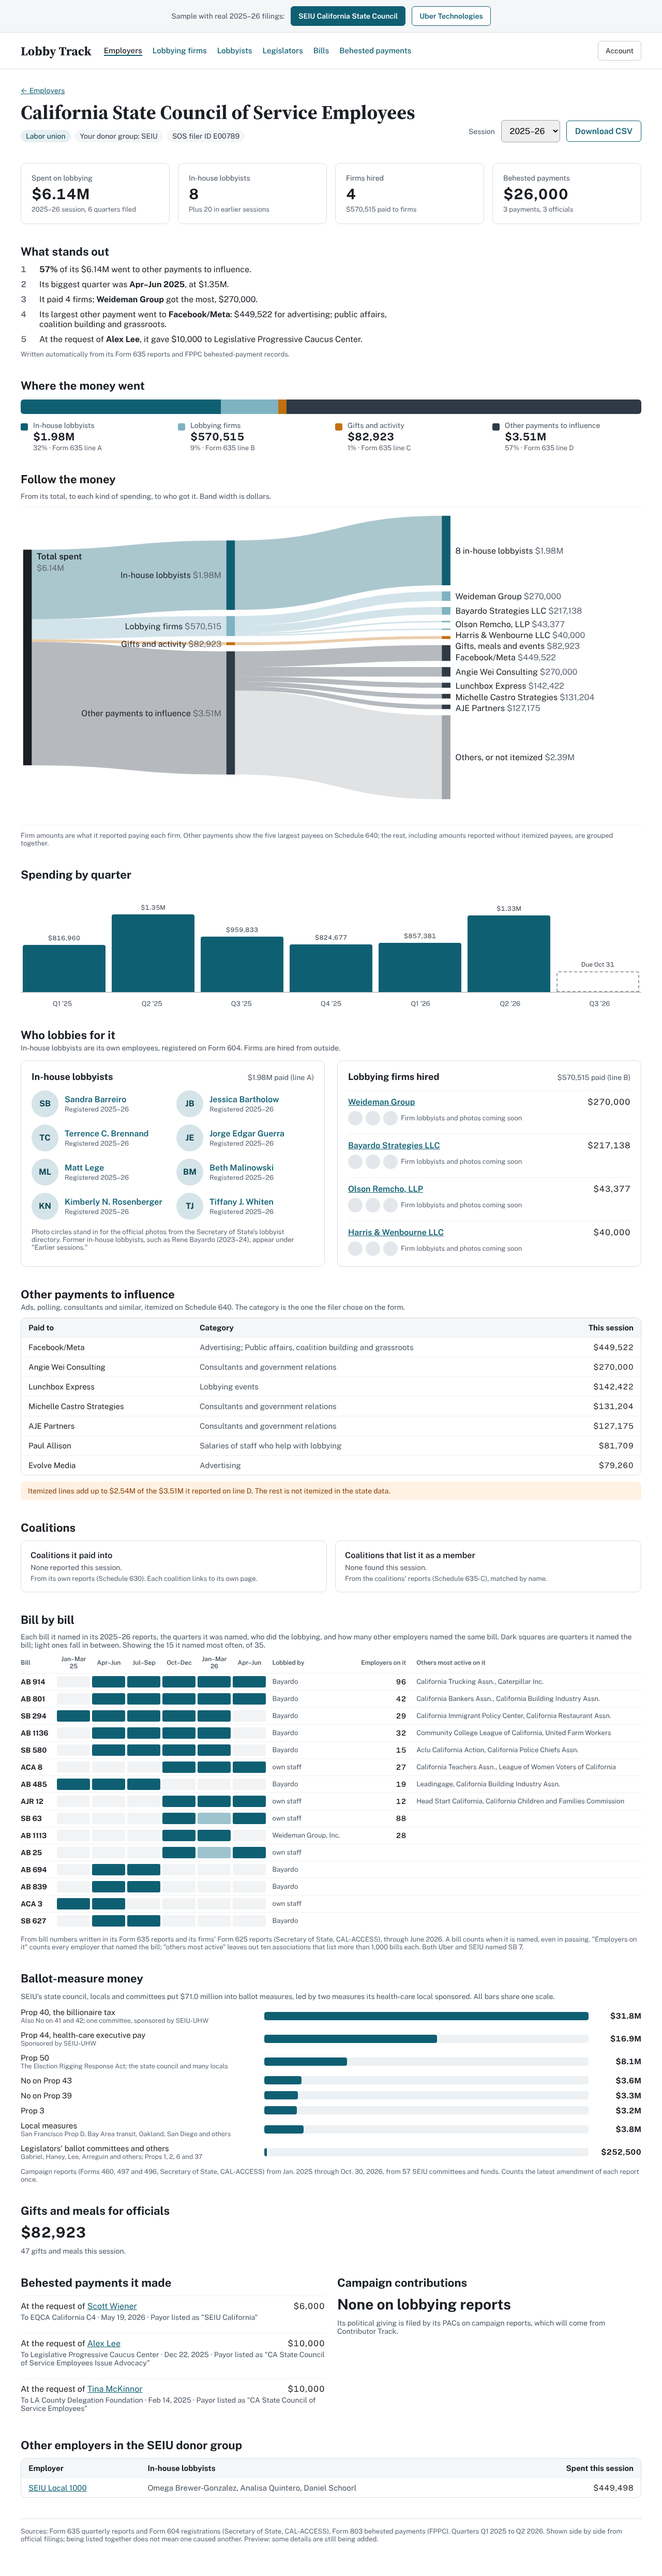
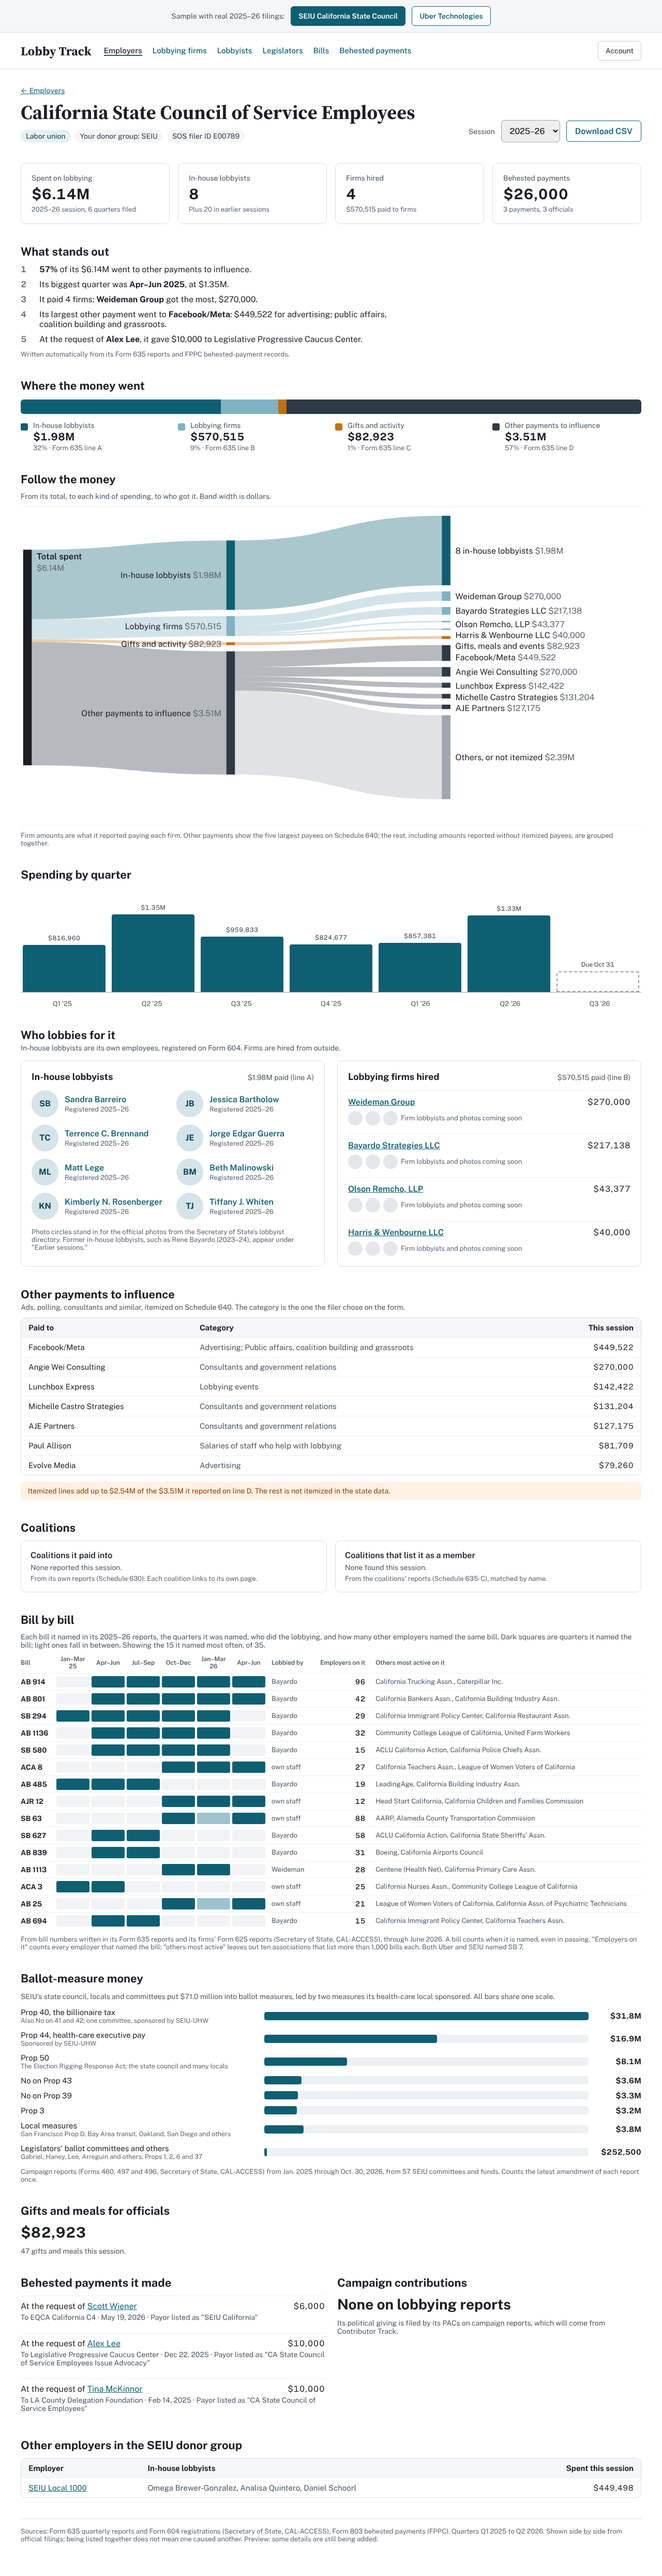
Fill in SEIU bill details and tidy names
Claude-Session: https://claude.ai/code/session_013wSKFYhvjsWLfhMDXcuD88

Changed region(s): [[0.5625, 0.6539, 0.875, 0.7473], [0.0312, 0.6539, 0.4688, 0.7473]]

diff --git a/index.html b/index.html
@@ -477,7 +477,7 @@ a{color:#0F5F73}a:hover{color:#0A4352}
           <td style="padding: 4px 2px"><div title="" style="height: 22px; border-radius: 3px; background: #F1F3F5"></div></td><td style="padding: 4px 2px"><div title="named this quarter" style="height: 22px; border-radius: 3px; background: #0F5F73"></div></td><td style="padding: 4px 2px"><div title="named this quarter" style="height: 22px; border-radius: 3px; background: #0F5F73"></div></td><td style="padding: 4px 2px"><div title="named this quarter" style="height: 22px; border-radius: 3px; background: #0F5F73"></div></td><td style="padding: 4px 2px"><div title="named this quarter" style="height: 22px; border-radius: 3px; background: #0F5F73"></div></td><td style="padding: 4px 2px"><div title="" style="height: 22px; border-radius: 3px; background: #F1F3F5"></div></td>
           <td style="padding: 8px 10px; font-size: 13px; color: #4A5560; white-space: nowrap">Bayardo</td>
           <td style="padding: 8px 10px; text-align: right; font-variant-numeric: tabular-nums; font-weight: 600">15</td>
-          <td style="padding: 8px 0 8px 10px; font-size: 13px; color: #4A5560; min-width: 220px">Aclu California Action, California Police Chiefs Assn.</td>
+          <td style="padding: 8px 0 8px 10px; font-size: 13px; color: #4A5560; min-width: 220px">ACLU California Action, California Police Chiefs Assn.</td>
         </tr>
         <tr style="border-top: 1px solid #EEF1F3">
           <th scope="row" style="text-align: left; padding: 8px 10px 8px 0; white-space: nowrap; font-weight: 700">ACA 8</th>
@@ -491,7 +491,7 @@ a{color:#0F5F73}a:hover{color:#0A4352}
           <td style="padding: 4px 2px"><div title="named this quarter" style="height: 22px; border-radius: 3px; background: #0F5F73"></div></td><td style="padding: 4px 2px"><div title="named this quarter" style="height: 22px; border-radius: 3px; background: #0F5F73"></div></td><td style="padding: 4px 2px"><div title="named this quarter" style="height: 22px; border-radius: 3px; background: #0F5F73"></div></td><td style="padding: 4px 2px"><div title="" style="height: 22px; border-radius: 3px; background: #F1F3F5"></div></td><td style="padding: 4px 2px"><div title="" style="height: 22px; border-radius: 3px; background: #F1F3F5"></div></td><td style="padding: 4px 2px"><div title="" style="height: 22px; border-radius: 3px; background: #F1F3F5"></div></td>
           <td style="padding: 8px 10px; font-size: 13px; color: #4A5560; white-space: nowrap">Bayardo</td>
           <td style="padding: 8px 10px; text-align: right; font-variant-numeric: tabular-nums; font-weight: 600">19</td>
-          <td style="padding: 8px 0 8px 10px; font-size: 13px; color: #4A5560; min-width: 220px">Leadingage, California Building Industry Assn.</td>
+          <td style="padding: 8px 0 8px 10px; font-size: 13px; color: #4A5560; min-width: 220px">LeadingAge, California Building Industry Assn.</td>
         </tr>
         <tr style="border-top: 1px solid #EEF1F3">
           <th scope="row" style="text-align: left; padding: 8px 10px 8px 0; white-space: nowrap; font-weight: 700">AJR 12</th>
@@ -505,49 +505,49 @@ a{color:#0F5F73}a:hover{color:#0A4352}
           <td style="padding: 4px 2px"><div title="" style="height: 22px; border-radius: 3px; background: #F1F3F5"></div></td><td style="padding: 4px 2px"><div title="" style="height: 22px; border-radius: 3px; background: #F1F3F5"></div></td><td style="padding: 4px 2px"><div title="" style="height: 22px; border-radius: 3px; background: #F1F3F5"></div></td><td style="padding: 4px 2px"><div title="named this quarter" style="height: 22px; border-radius: 3px; background: #0F5F73"></div></td><td style="padding: 4px 2px"><div title="between quarters it was named" style="height: 22px; border-radius: 3px; background: #9CC3CE"></div></td><td style="padding: 4px 2px"><div title="named this quarter" style="height: 22px; border-radius: 3px; background: #0F5F73"></div></td>
           <td style="padding: 8px 10px; font-size: 13px; color: #4A5560; white-space: nowrap">own staff</td>
           <td style="padding: 8px 10px; text-align: right; font-variant-numeric: tabular-nums; font-weight: 600">88</td>
-          <td style="padding: 8px 0 8px 10px; font-size: 13px; color: #4A5560; min-width: 220px"></td>
-        </tr>
-        <tr style="border-top: 1px solid #EEF1F3">
-          <th scope="row" style="text-align: left; padding: 8px 10px 8px 0; white-space: nowrap; font-weight: 700">AB 1113</th>
-          <td style="padding: 4px 2px"><div title="" style="height: 22px; border-radius: 3px; background: #F1F3F5"></div></td><td style="padding: 4px 2px"><div title="" style="height: 22px; border-radius: 3px; background: #F1F3F5"></div></td><td style="padding: 4px 2px"><div title="" style="height: 22px; border-radius: 3px; background: #F1F3F5"></div></td><td style="padding: 4px 2px"><div title="named this quarter" style="height: 22px; border-radius: 3px; background: #0F5F73"></div></td><td style="padding: 4px 2px"><div title="named this quarter" style="height: 22px; border-radius: 3px; background: #0F5F73"></div></td><td style="padding: 4px 2px"><div title="" style="height: 22px; border-radius: 3px; background: #F1F3F5"></div></td>
-          <td style="padding: 8px 10px; font-size: 13px; color: #4A5560; white-space: nowrap">Weideman Group, Inc.</td>
-          <td style="padding: 8px 10px; text-align: right; font-variant-numeric: tabular-nums; font-weight: 600">28</td>
-          <td style="padding: 8px 0 8px 10px; font-size: 13px; color: #4A5560; min-width: 220px"></td>
-        </tr>
-        <tr style="border-top: 1px solid #EEF1F3">
-          <th scope="row" style="text-align: left; padding: 8px 10px 8px 0; white-space: nowrap; font-weight: 700">AB 25</th>
-          <td style="padding: 4px 2px"><div title="" style="height: 22px; border-radius: 3px; background: #F1F3F5"></div></td><td style="padding: 4px 2px"><div title="" style="height: 22px; border-radius: 3px; background: #F1F3F5"></div></td><td style="padding: 4px 2px"><div title="" style="height: 22px; border-radius: 3px; background: #F1F3F5"></div></td><td style="padding: 4px 2px"><div title="named this quarter" style="height: 22px; border-radius: 3px; background: #0F5F73"></div></td><td style="padding: 4px 2px"><div title="between quarters it was named" style="height: 22px; border-radius: 3px; background: #9CC3CE"></div></td><td style="padding: 4px 2px"><div title="named this quarter" style="height: 22px; border-radius: 3px; background: #0F5F73"></div></td>
-          <td style="padding: 8px 10px; font-size: 13px; color: #4A5560; white-space: nowrap">own staff</td>
-          <td style="padding: 8px 10px; text-align: right; font-variant-numeric: tabular-nums; font-weight: 600"></td>
-          <td style="padding: 8px 0 8px 10px; font-size: 13px; color: #4A5560; min-width: 220px"></td>
-        </tr>
-        <tr style="border-top: 1px solid #EEF1F3">
-          <th scope="row" style="text-align: left; padding: 8px 10px 8px 0; white-space: nowrap; font-weight: 700">AB 694</th>
-          <td style="padding: 4px 2px"><div title="" style="height: 22px; border-radius: 3px; background: #F1F3F5"></div></td><td style="padding: 4px 2px"><div title="named this quarter" style="height: 22px; border-radius: 3px; background: #0F5F73"></div></td><td style="padding: 4px 2px"><div title="named this quarter" style="height: 22px; border-radius: 3px; background: #0F5F73"></div></td><td style="padding: 4px 2px"><div title="" style="height: 22px; border-radius: 3px; background: #F1F3F5"></div></td><td style="padding: 4px 2px"><div title="" style="height: 22px; border-radius: 3px; background: #F1F3F5"></div></td><td style="padding: 4px 2px"><div title="" style="height: 22px; border-radius: 3px; background: #F1F3F5"></div></td>
-          <td style="padding: 8px 10px; font-size: 13px; color: #4A5560; white-space: nowrap">Bayardo</td>
-          <td style="padding: 8px 10px; text-align: right; font-variant-numeric: tabular-nums; font-weight: 600"></td>
-          <td style="padding: 8px 0 8px 10px; font-size: 13px; color: #4A5560; min-width: 220px"></td>
-        </tr>
-        <tr style="border-top: 1px solid #EEF1F3">
-          <th scope="row" style="text-align: left; padding: 8px 10px 8px 0; white-space: nowrap; font-weight: 700">AB 839</th>
-          <td style="padding: 4px 2px"><div title="" style="height: 22px; border-radius: 3px; background: #F1F3F5"></div></td><td style="padding: 4px 2px"><div title="named this quarter" style="height: 22px; border-radius: 3px; background: #0F5F73"></div></td><td style="padding: 4px 2px"><div title="named this quarter" style="height: 22px; border-radius: 3px; background: #0F5F73"></div></td><td style="padding: 4px 2px"><div title="" style="height: 22px; border-radius: 3px; background: #F1F3F5"></div></td><td style="padding: 4px 2px"><div title="" style="height: 22px; border-radius: 3px; background: #F1F3F5"></div></td><td style="padding: 4px 2px"><div title="" style="height: 22px; border-radius: 3px; background: #F1F3F5"></div></td>
-          <td style="padding: 8px 10px; font-size: 13px; color: #4A5560; white-space: nowrap">Bayardo</td>
-          <td style="padding: 8px 10px; text-align: right; font-variant-numeric: tabular-nums; font-weight: 600"></td>
-          <td style="padding: 8px 0 8px 10px; font-size: 13px; color: #4A5560; min-width: 220px"></td>
-        </tr>
-        <tr style="border-top: 1px solid #EEF1F3">
-          <th scope="row" style="text-align: left; padding: 8px 10px 8px 0; white-space: nowrap; font-weight: 700">ACA 3</th>
-          <td style="padding: 4px 2px"><div title="named this quarter" style="height: 22px; border-radius: 3px; background: #0F5F73"></div></td><td style="padding: 4px 2px"><div title="named this quarter" style="height: 22px; border-radius: 3px; background: #0F5F73"></div></td><td style="padding: 4px 2px"><div title="" style="height: 22px; border-radius: 3px; background: #F1F3F5"></div></td><td style="padding: 4px 2px"><div title="" style="height: 22px; border-radius: 3px; background: #F1F3F5"></div></td><td style="padding: 4px 2px"><div title="" style="height: 22px; border-radius: 3px; background: #F1F3F5"></div></td><td style="padding: 4px 2px"><div title="" style="height: 22px; border-radius: 3px; background: #F1F3F5"></div></td>
-          <td style="padding: 8px 10px; font-size: 13px; color: #4A5560; white-space: nowrap">own staff</td>
-          <td style="padding: 8px 10px; text-align: right; font-variant-numeric: tabular-nums; font-weight: 600"></td>
-          <td style="padding: 8px 0 8px 10px; font-size: 13px; color: #4A5560; min-width: 220px"></td>
+          <td style="padding: 8px 0 8px 10px; font-size: 13px; color: #4A5560; min-width: 220px">AARP, Alameda County Transportation Commission</td>
         </tr>
         <tr style="border-top: 1px solid #EEF1F3">
           <th scope="row" style="text-align: left; padding: 8px 10px 8px 0; white-space: nowrap; font-weight: 700">SB 627</th>
           <td style="padding: 4px 2px"><div title="" style="height: 22px; border-radius: 3px; background: #F1F3F5"></div></td><td style="padding: 4px 2px"><div title="named this quarter" style="height: 22px; border-radius: 3px; background: #0F5F73"></div></td><td style="padding: 4px 2px"><div title="named this quarter" style="height: 22px; border-radius: 3px; background: #0F5F73"></div></td><td style="padding: 4px 2px"><div title="" style="height: 22px; border-radius: 3px; background: #F1F3F5"></div></td><td style="padding: 4px 2px"><div title="" style="height: 22px; border-radius: 3px; background: #F1F3F5"></div></td><td style="padding: 4px 2px"><div title="" style="height: 22px; border-radius: 3px; background: #F1F3F5"></div></td>
           <td style="padding: 8px 10px; font-size: 13px; color: #4A5560; white-space: nowrap">Bayardo</td>
-          <td style="padding: 8px 10px; text-align: right; font-variant-numeric: tabular-nums; font-weight: 600"></td>
-          <td style="padding: 8px 0 8px 10px; font-size: 13px; color: #4A5560; min-width: 220px"></td>
+          <td style="padding: 8px 10px; text-align: right; font-variant-numeric: tabular-nums; font-weight: 600">58</td>
+          <td style="padding: 8px 0 8px 10px; font-size: 13px; color: #4A5560; min-width: 220px">ACLU California Action, California State Sheriffs' Assn.</td>
+        </tr>
+        <tr style="border-top: 1px solid #EEF1F3">
+          <th scope="row" style="text-align: left; padding: 8px 10px 8px 0; white-space: nowrap; font-weight: 700">AB 839</th>
+          <td style="padding: 4px 2px"><div title="" style="height: 22px; border-radius: 3px; background: #F1F3F5"></div></td><td style="padding: 4px 2px"><div title="named this quarter" style="height: 22px; border-radius: 3px; background: #0F5F73"></div></td><td style="padding: 4px 2px"><div title="named this quarter" style="height: 22px; border-radius: 3px; background: #0F5F73"></div></td><td style="padding: 4px 2px"><div title="" style="height: 22px; border-radius: 3px; background: #F1F3F5"></div></td><td style="padding: 4px 2px"><div title="" style="height: 22px; border-radius: 3px; background: #F1F3F5"></div></td><td style="padding: 4px 2px"><div title="" style="height: 22px; border-radius: 3px; background: #F1F3F5"></div></td>
+          <td style="padding: 8px 10px; font-size: 13px; color: #4A5560; white-space: nowrap">Bayardo</td>
+          <td style="padding: 8px 10px; text-align: right; font-variant-numeric: tabular-nums; font-weight: 600">31</td>
+          <td style="padding: 8px 0 8px 10px; font-size: 13px; color: #4A5560; min-width: 220px">Boeing, California Airports Council</td>
+        </tr>
+        <tr style="border-top: 1px solid #EEF1F3">
+          <th scope="row" style="text-align: left; padding: 8px 10px 8px 0; white-space: nowrap; font-weight: 700">AB 1113</th>
+          <td style="padding: 4px 2px"><div title="" style="height: 22px; border-radius: 3px; background: #F1F3F5"></div></td><td style="padding: 4px 2px"><div title="" style="height: 22px; border-radius: 3px; background: #F1F3F5"></div></td><td style="padding: 4px 2px"><div title="" style="height: 22px; border-radius: 3px; background: #F1F3F5"></div></td><td style="padding: 4px 2px"><div title="named this quarter" style="height: 22px; border-radius: 3px; background: #0F5F73"></div></td><td style="padding: 4px 2px"><div title="named this quarter" style="height: 22px; border-radius: 3px; background: #0F5F73"></div></td><td style="padding: 4px 2px"><div title="" style="height: 22px; border-radius: 3px; background: #F1F3F5"></div></td>
+          <td style="padding: 8px 10px; font-size: 13px; color: #4A5560; white-space: nowrap">Weideman</td>
+          <td style="padding: 8px 10px; text-align: right; font-variant-numeric: tabular-nums; font-weight: 600">28</td>
+          <td style="padding: 8px 0 8px 10px; font-size: 13px; color: #4A5560; min-width: 220px">Centene (Health Net), California Primary Care Assn.</td>
+        </tr>
+        <tr style="border-top: 1px solid #EEF1F3">
+          <th scope="row" style="text-align: left; padding: 8px 10px 8px 0; white-space: nowrap; font-weight: 700">ACA 3</th>
+          <td style="padding: 4px 2px"><div title="named this quarter" style="height: 22px; border-radius: 3px; background: #0F5F73"></div></td><td style="padding: 4px 2px"><div title="named this quarter" style="height: 22px; border-radius: 3px; background: #0F5F73"></div></td><td style="padding: 4px 2px"><div title="" style="height: 22px; border-radius: 3px; background: #F1F3F5"></div></td><td style="padding: 4px 2px"><div title="" style="height: 22px; border-radius: 3px; background: #F1F3F5"></div></td><td style="padding: 4px 2px"><div title="" style="height: 22px; border-radius: 3px; background: #F1F3F5"></div></td><td style="padding: 4px 2px"><div title="" style="height: 22px; border-radius: 3px; background: #F1F3F5"></div></td>
+          <td style="padding: 8px 10px; font-size: 13px; color: #4A5560; white-space: nowrap">own staff</td>
+          <td style="padding: 8px 10px; text-align: right; font-variant-numeric: tabular-nums; font-weight: 600">25</td>
+          <td style="padding: 8px 0 8px 10px; font-size: 13px; color: #4A5560; min-width: 220px">California Nurses Assn., Community College League of California</td>
+        </tr>
+        <tr style="border-top: 1px solid #EEF1F3">
+          <th scope="row" style="text-align: left; padding: 8px 10px 8px 0; white-space: nowrap; font-weight: 700">AB 25</th>
+          <td style="padding: 4px 2px"><div title="" style="height: 22px; border-radius: 3px; background: #F1F3F5"></div></td><td style="padding: 4px 2px"><div title="" style="height: 22px; border-radius: 3px; background: #F1F3F5"></div></td><td style="padding: 4px 2px"><div title="" style="height: 22px; border-radius: 3px; background: #F1F3F5"></div></td><td style="padding: 4px 2px"><div title="named this quarter" style="height: 22px; border-radius: 3px; background: #0F5F73"></div></td><td style="padding: 4px 2px"><div title="between quarters it was named" style="height: 22px; border-radius: 3px; background: #9CC3CE"></div></td><td style="padding: 4px 2px"><div title="named this quarter" style="height: 22px; border-radius: 3px; background: #0F5F73"></div></td>
+          <td style="padding: 8px 10px; font-size: 13px; color: #4A5560; white-space: nowrap">own staff</td>
+          <td style="padding: 8px 10px; text-align: right; font-variant-numeric: tabular-nums; font-weight: 600">21</td>
+          <td style="padding: 8px 0 8px 10px; font-size: 13px; color: #4A5560; min-width: 220px">League of Women Voters of California, California Assn. of Psychiatric Technicians</td>
+        </tr>
+        <tr style="border-top: 1px solid #EEF1F3">
+          <th scope="row" style="text-align: left; padding: 8px 10px 8px 0; white-space: nowrap; font-weight: 700">AB 694</th>
+          <td style="padding: 4px 2px"><div title="" style="height: 22px; border-radius: 3px; background: #F1F3F5"></div></td><td style="padding: 4px 2px"><div title="named this quarter" style="height: 22px; border-radius: 3px; background: #0F5F73"></div></td><td style="padding: 4px 2px"><div title="named this quarter" style="height: 22px; border-radius: 3px; background: #0F5F73"></div></td><td style="padding: 4px 2px"><div title="" style="height: 22px; border-radius: 3px; background: #F1F3F5"></div></td><td style="padding: 4px 2px"><div title="" style="height: 22px; border-radius: 3px; background: #F1F3F5"></div></td><td style="padding: 4px 2px"><div title="" style="height: 22px; border-radius: 3px; background: #F1F3F5"></div></td>
+          <td style="padding: 8px 10px; font-size: 13px; color: #4A5560; white-space: nowrap">Bayardo</td>
+          <td style="padding: 8px 10px; text-align: right; font-variant-numeric: tabular-nums; font-weight: 600">15</td>
+          <td style="padding: 8px 0 8px 10px; font-size: 13px; color: #4A5560; min-width: 220px">California Immigrant Policy Center, California Teachers Assn.</td>
         </tr>
         </tbody>
       </table>
@@ -999,7 +999,7 @@ a{color:#0F5F73}a:hover{color:#0A4352}
           <td style="padding: 4px 2px"><div title="named this quarter" style="height: 22px; border-radius: 3px; background: #0F5F73"></div></td><td style="padding: 4px 2px"><div title="named this quarter" style="height: 22px; border-radius: 3px; background: #0F5F73"></div></td><td style="padding: 4px 2px"><div title="named this quarter" style="height: 22px; border-radius: 3px; background: #0F5F73"></div></td><td style="padding: 4px 2px"><div title="" style="height: 22px; border-radius: 3px; background: #F1F3F5"></div></td><td style="padding: 4px 2px"><div title="" style="height: 22px; border-radius: 3px; background: #F1F3F5"></div></td><td style="padding: 4px 2px"><div title="" style="height: 22px; border-radius: 3px; background: #F1F3F5"></div></td>
           <td style="padding: 8px 10px; font-size: 13px; color: #4A5560; white-space: nowrap">Summit, own staff</td>
           <td style="padding: 8px 10px; text-align: right; font-variant-numeric: tabular-nums; font-weight: 600">42</td>
-          <td style="padding: 8px 0 8px 10px; font-size: 13px; color: #4A5560; min-width: 220px">Bsc Management, California Arts Advocates</td>
+          <td style="padding: 8px 0 8px 10px; font-size: 13px; color: #4A5560; min-width: 220px">BSC Management, California Arts Advocates</td>
         </tr>
         <tr style="border-top: 1px solid #EEF1F3">
           <th scope="row" style="text-align: left; padding: 8px 10px 8px 0; white-space: nowrap; font-weight: 700">AB 578</th>
@@ -1048,7 +1048,7 @@ a{color:#0F5F73}a:hover{color:#0A4352}
           <td style="padding: 4px 2px"><div title="" style="height: 22px; border-radius: 3px; background: #F1F3F5"></div></td><td style="padding: 4px 2px"><div title="" style="height: 22px; border-radius: 3px; background: #F1F3F5"></div></td><td style="padding: 4px 2px"><div title="named this quarter" style="height: 22px; border-radius: 3px; background: #0F5F73"></div></td><td style="padding: 4px 2px"><div title="named this quarter" style="height: 22px; border-radius: 3px; background: #0F5F73"></div></td><td style="padding: 4px 2px"><div title="" style="height: 22px; border-radius: 3px; background: #F1F3F5"></div></td><td style="padding: 4px 2px"><div title="" style="height: 22px; border-radius: 3px; background: #F1F3F5"></div></td>
           <td style="padding: 8px 10px; font-size: 13px; color: #4A5560; white-space: nowrap">Heyworth, Summit, own staff</td>
           <td style="padding: 8px 10px; text-align: right; font-variant-numeric: tabular-nums; font-weight: 600">71</td>
-          <td style="padding: 8px 0 8px 10px; font-size: 13px; color: #4A5560; min-width: 220px">California Apartment Assn., Technet - Technology Network</td>
+          <td style="padding: 8px 0 8px 10px; font-size: 13px; color: #4A5560; min-width: 220px">California Apartment Assn., TechNet - Technology Network</td>
         </tr>
         <tr style="border-top: 1px solid #EEF1F3">
           <th scope="row" style="text-align: left; padding: 8px 10px 8px 0; white-space: nowrap; font-weight: 700">AB 2564</th>
@@ -1076,7 +1076,7 @@ a{color:#0F5F73}a:hover{color:#0A4352}
           <td style="padding: 4px 2px"><div title="named this quarter" style="height: 22px; border-radius: 3px; background: #0F5F73"></div></td><td style="padding: 4px 2px"><div title="" style="height: 22px; border-radius: 3px; background: #F1F3F5"></div></td><td style="padding: 4px 2px"><div title="" style="height: 22px; border-radius: 3px; background: #F1F3F5"></div></td><td style="padding: 4px 2px"><div title="" style="height: 22px; border-radius: 3px; background: #F1F3F5"></div></td><td style="padding: 4px 2px"><div title="" style="height: 22px; border-radius: 3px; background: #F1F3F5"></div></td><td style="padding: 4px 2px"><div title="" style="height: 22px; border-radius: 3px; background: #F1F3F5"></div></td>
           <td style="padding: 8px 10px; font-size: 13px; color: #4A5560; white-space: nowrap">Heyworth, own staff</td>
           <td style="padding: 8px 10px; text-align: right; font-variant-numeric: tabular-nums; font-weight: 600">83</td>
-          <td style="padding: 8px 0 8px 10px; font-size: 13px; color: #4A5560; min-width: 220px">Experian, Technet - Technology Network</td>
+          <td style="padding: 8px 0 8px 10px; font-size: 13px; color: #4A5560; min-width: 220px">Experian, TechNet - Technology Network</td>
         </tr>
         <tr style="border-top: 1px solid #EEF1F3">
           <th scope="row" style="text-align: left; padding: 8px 10px 8px 0; white-space: nowrap; font-weight: 700">SB 384</th>
